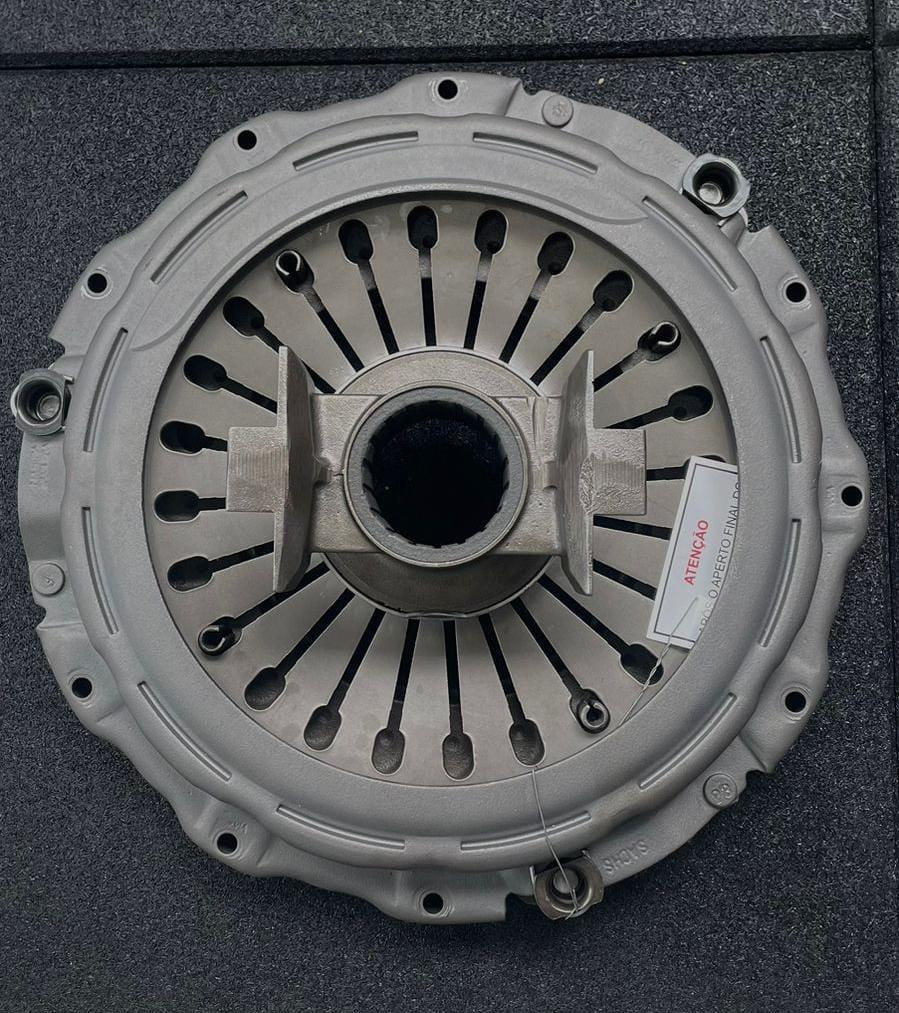
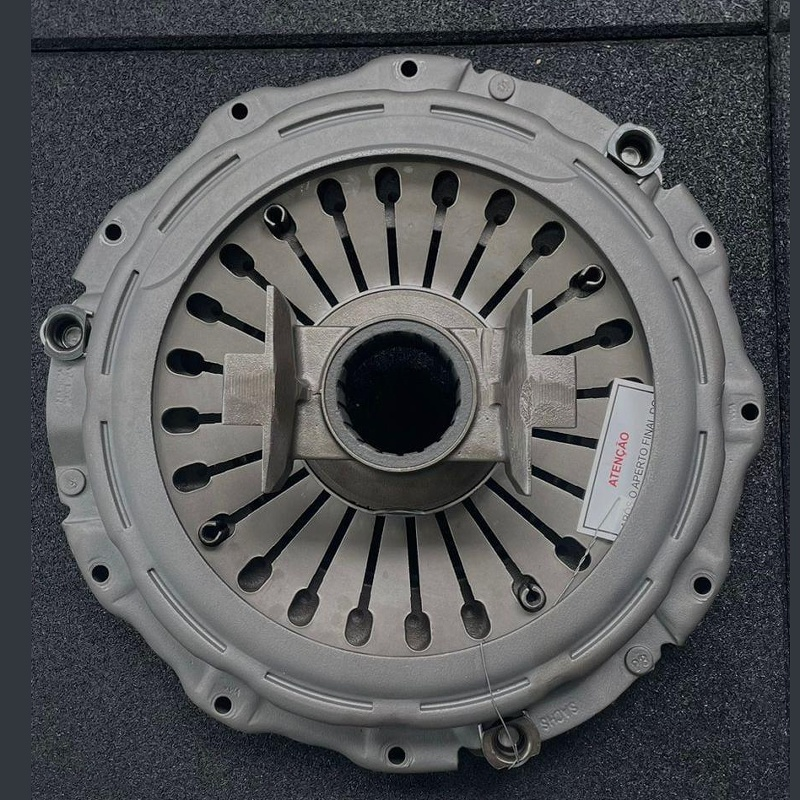
fix: atualiza horários de funcionamento, reposiciona notícia do Lendas Camp e ajusta estilos de imagens

diff --git a/lib/articles.ts b/lib/articles.ts
@@ -17,6 +17,29 @@ export interface Article {
 
 export const ARTICLES: Article[] = [
   {
+    slug: "lendas-camp-3",
+    title: "Dexter Embreagens confirma presença no Lendas Camp #3",
+    excerpt:
+      "O Lendas Camp confirma sua terceira edição em outubro de 2025 no CT Dartanhã, em Guararema (SP). A Dexter segue como patrocinadora do maior evento de imersão futebolística para jovens.",
+    date: "Outubro 2025",
+    coverImage: "/images/lendas-camp3/banner.jpeg",
+    coverPosition: "50% 25%",
+    category: "Patrocínio",
+    content: [
+      "A Dexter Embreagens confirma sua presença como patrocinadora na terceira edição do Lendas Camp, que acontecerá nos dias 10, 11 e 12 de outubro de 2025 no CT Dartanhã, em Guararema (SP).",
+      "O Lendas Camp 3 é voltado para jovens atletas de 10 a 17 anos e oferece a oportunidade de treinar e conviver com atletas que marcaram época no futebol brasileiro e internacional. As edições anteriores contaram com a presença de nomes como Craque Neto, Velloso, Souza, André Petroni, Alexandre Alves e Rogerinho R9.",
+      "\"Nosso objetivo é ir muito além do campo. Queremos inspirar esses jovens, não apenas a serem melhores jogadores, mas também melhores pessoas, com base nos princípios de disciplina, respeito, superação e trabalho em equipe\", afirma Renato Lanzoni, fundador e CEO do Lendas Camp.",
+      "A programação completa inclui treinamentos com atletas, clínicas táticas, jogos competitivos e palestras de equipe multidisciplinar, abordando temas como nutrição esportiva e psicologia para atletas.",
+      "A Dexter Embreagens se orgulha de estar presente desde a primeira edição deste projeto incrível. Apoiar o Lendas Camp é parte do nosso compromisso em contribuir com a comunidade e inspirar as novas gerações, dentro e fora das oficinas.",
+    ],
+    gallery: [
+      { src: "/images/lendas-camp3/foto-1.jpeg", alt: "Logomarca da Dexter Embreagens no Lendas Camp 3" },
+      { src: "/images/lendas-camp3/foto-2.jpeg", alt: "Dexter Embreagens em destaque no Lendas Camp 3" },
+      { src: "/images/lendas-camp3/foto-3.jpeg", alt: "Apoio da Dexter Embreagens ao Lendas Camp 3" },
+      { src: "/images/lendas-camp3/foto-4.jpeg", alt: "Camisas do Lendas Camp 3 com a logo da Dexter Embreagens" },
+    ],
+  },
+  {
     slug: "fenatran-2024",
     title: "Dexter Embreagens na Fenatran 2024",
     excerpt:
@@ -86,29 +109,6 @@ export const ARTICLES: Article[] = [
       { src: "/images/lendas-camp2/foto-3.jpeg", alt: "Dexter Embreagens no Lendas Camp 2" },
       { src: "/images/lendas-camp2/foto-4.jpeg", alt: "Momentos inesquecíveis no Lendas Camp 2" },
       { src: "/images/lendas-camp2/foto-5.jpeg", alt: "Equipe e jovens atletas no Lendas Camp 2" },
-    ],
-  },
-  {
-    slug: "lendas-camp-3",
-    title: "Dexter Embreagens confirma presença no Lendas Camp #3",
-    excerpt:
-      "O Lendas Camp confirma sua terceira edição em outubro de 2025 no CT Dartanhã, em Guararema (SP). A Dexter segue como patrocinadora do maior evento de imersão futebolística para jovens.",
-    date: "Outubro 2025",
-    coverImage: "/images/lendas-camp3/banner.jpeg",
-    coverPosition: "50% 25%",
-    category: "Patrocínio",
-    content: [
-      "A Dexter Embreagens confirma sua presença como patrocinadora na terceira edição do Lendas Camp, que acontecerá nos dias 10, 11 e 12 de outubro de 2025 no CT Dartanhã, em Guararema (SP).",
-      "O Lendas Camp 3 é voltado para jovens atletas de 10 a 17 anos e oferece a oportunidade de treinar e conviver com atletas que marcaram época no futebol brasileiro e internacional. As edições anteriores contaram com a presença de nomes como Craque Neto, Velloso, Souza, André Petroni, Alexandre Alves e Rogerinho R9.",
-      "\"Nosso objetivo é ir muito além do campo. Queremos inspirar esses jovens, não apenas a serem melhores jogadores, mas também melhores pessoas, com base nos princípios de disciplina, respeito, superação e trabalho em equipe\", afirma Renato Lanzoni, fundador e CEO do Lendas Camp.",
-      "A programação completa inclui treinamentos com atletas, clínicas táticas, jogos competitivos e palestras de equipe multidisciplinar, abordando temas como nutrição esportiva e psicologia para atletas.",
-      "A Dexter Embreagens se orgulha de estar presente desde a primeira edição deste projeto incrível. Apoiar o Lendas Camp é parte do nosso compromisso em contribuir com a comunidade e inspirar as novas gerações, dentro e fora das oficinas.",
-    ],
-    gallery: [
-      { src: "/images/lendas-camp3/foto-1.jpeg", alt: "Logomarca da Dexter Embreagens no Lendas Camp 3" },
-      { src: "/images/lendas-camp3/foto-2.jpeg", alt: "Dexter Embreagens em destaque no Lendas Camp 3" },
-      { src: "/images/lendas-camp3/foto-3.jpeg", alt: "Apoio da Dexter Embreagens ao Lendas Camp 3" },
-      { src: "/images/lendas-camp3/foto-4.jpeg", alt: "Camisas do Lendas Camp 3 com a logo da Dexter Embreagens" },
     ],
   },
 ];

diff --git a/components/sections/BeforeAndAfter.tsx b/components/sections/BeforeAndAfter.tsx
@@ -16,38 +16,38 @@ export function BeforeAndAfter() {
 
         <div className="grid grid-cols-1 md:grid-cols-2 gap-8 max-w-4xl mx-auto items-stretch">
           {/* Antes */}
-          <div className="relative group w-full">
-            <div className="relative w-full aspect-[4/3] rounded-2xl overflow-hidden border-2 border-slate-200 shadow-md">
+          <div className="relative group w-full h-full">
+            <div className="relative w-full h-[350px] md:h-[450px] rounded-2xl overflow-hidden border-2 border-slate-200 shadow-md bg-[#7a756b]">
               <Image
                 src="/images/plato-antes-remanufatura.jpg"
                 alt="Platô de embreagem antes da remanufatura — peça usada e desgastada"
                 fill
-                className="object-cover object-center"
+                className="object-cover object-center scale-[1.10] translate-y-[-8.6%]"
                 sizes="(max-width: 768px) 100vw, 50vw"
               />
-              <div className="absolute inset-0 bg-gradient-to-t from-black/50 to-transparent" />
+              <div className="absolute inset-0 bg-gradient-to-t from-black/50 via-transparent to-transparent" />
             </div>
-            <div className="absolute bottom-4 left-4 right-4">
-              <span className="inline-block bg-slate-900/90 text-white px-4 py-2 rounded-full text-sm font-bold uppercase tracking-wider backdrop-blur-sm">
+            <div className="absolute bottom-2 left-6 right-6 flex justify-center">
+              <span className="inline-block bg-slate-900/90 text-white px-5 py-2.5 rounded-full text-sm font-bold uppercase tracking-wider backdrop-blur-sm shadow-xl">
                 ❌ Antes da Remanufatura
               </span>
             </div>
           </div>
 
           {/* Depois */}
-          <div className="relative group w-full">
-            <div className="relative w-full aspect-[4/3] rounded-2xl overflow-hidden border-2 border-dexter-red/20 shadow-md ring-2 ring-dexter-red/10">
+          <div className="relative group w-full h-full">
+            <div className="relative w-full h-[350px] md:h-[450px] rounded-2xl overflow-hidden border-2 border-dexter-red/20 shadow-md ring-2 ring-dexter-red/10">
               <Image
                 src="/images/plato-remanufaturado-novo.jpg"
                 alt="Platô de embreagem depois da remanufatura — peça restaurada como nova"
                 fill
-                className="object-cover object-center"
+                className="object-cover object-center scale-[1.02] translate-y-[-2%]"
                 sizes="(max-width: 768px) 100vw, 50vw"
               />
-              <div className="absolute inset-0 bg-gradient-to-t from-black/40 to-transparent" />
+              <div className="absolute inset-0 bg-gradient-to-t from-black/40 via-transparent to-transparent" />
             </div>
-            <div className="absolute bottom-4 left-4 right-4">
-              <span className="inline-block bg-dexter-red text-white px-4 py-2 rounded-full text-sm font-bold uppercase tracking-wider shadow-lg">
+            <div className="absolute bottom-2 left-6 right-6 flex justify-center">
+              <span className="inline-block bg-dexter-red text-white px-5 py-2.5 rounded-full text-sm font-bold uppercase tracking-wider shadow-xl">
                 ✅ Depois da Remanufatura
               </span>
             </div>

diff --git a/components/sections/Header.tsx b/components/sections/Header.tsx
@@ -54,7 +54,7 @@ export function Header() {
             <div className="flex items-center gap-3 border-l border-slate-200 pl-8">
               <div>
                 <h4 className="text-[11px] font-bold text-slate-500 uppercase tracking-wider mb-0.5">Atendimento</h4>
-                <p className="text-[12px] text-slate-400">Seg-Sex: 7:30h às 16:30h<br/>Sáb: 8:00h às 15:00h</p>
+                <p className="text-[12px] text-slate-400">Seg-Sex: 07h às 12h | 13h às 16:15h<br/>Sáb: 08h às 12h | 13h às 16:15h</p>
               </div>
               <Clock className="w-8 h-8 text-slate-400 stroke-1" />
             </div>
@@ -217,7 +217,7 @@ export function Header() {
               </div>
               <div className="flex items-center gap-2">
                 <Clock className="w-4 h-4" />
-                <span>Seg-Sex: 7:30h às 16:30h</span>
+                <span>Seg-Sex: 07h às 12h | 13h às 16:15h</span>
               </div>
               <div className="flex items-center gap-2">
                 <MapPin className="w-4 h-4" />

diff --git a/components/sections/Location.tsx b/components/sections/Location.tsx
@@ -36,8 +36,8 @@ export function Location() {
                 <div>
                   <h4 className="font-bold text-slate-900 text-lg">Horário de Atendimento</h4>
                   <p className="text-slate-600">
-                    Segunda a Sexta: 7:30 às 16:30<br />
-                    Sábado: 8:00 às 15:00
+                    Segunda a Sexta: 07:00 às 12:00 | 13:00 às 16:15<br />
+                    Sábado: 08:00 às 12:00 | 13:00 às 16:15
                   </p>
                 </div>
               </div>

diff --git a/app/contato/page.tsx b/app/contato/page.tsx
@@ -103,8 +103,8 @@ export default function ContatoPage() {
                 <div>
                   <h4 className="font-bold text-slate-900">Horário</h4>
                   <p className="text-slate-600 text-sm">
-                    Seg-Sex: 09:00 às 17:00<br />
-                    Sábado: 09:00 às 17:00
+                    Seg-Sex: 07:00 às 12:00 | 13:00 às 16:15<br />
+                    Sábado: 08:00 às 12:00 | 13:00 às 16:15
                   </p>
                 </div>
               </div>

diff --git a/app/servicos/page.tsx b/app/servicos/page.tsx
@@ -41,7 +41,7 @@ export default function ServicosPage() {
                 src={servico.imagem}
                 alt={servico.nome}
                 fill
-                className="object-contain p-4"
+                className="object-cover object-center"
               />
             </div>
           </div>
